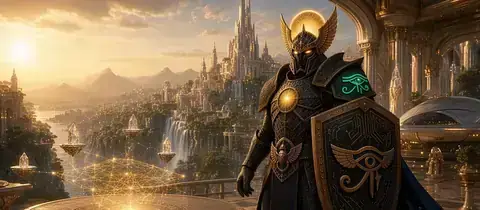
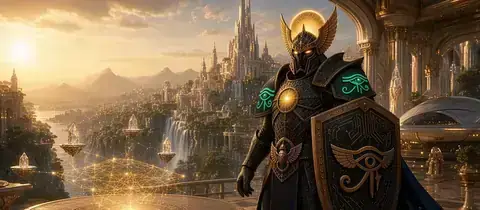
EYES-CANON-3: Sherif 8:47 PM - eyes on both shoulders for Launch and chat, hump-shaped Forge hammer head

Changed region(s): [[0.5312, 0.3714, 0.5938, 0.5714]]

diff --git a/tests/art-uplift-2.test.js b/tests/art-uplift-2.test.js
@@ -118,7 +118,7 @@ assert(legalClass['licence.html'].indexOf('rt-art-hero-wide') === -1, 'licence k
 /* 3. Destination thumbnails on section cards (ART-UPLIFT-3: re-cut from the new chat, shard, forge, employ and launch heroes). */
 var THUMBS = {
   'Launch-Ra-Thor.html': [
-    ['/chat.html', 'chat-library-counsel'],
+    ['/chat.html', 'chat-library-counsel-eyes'],
     ['/sovereign-shard.html', 'shard-guardian-sanctum-c3'],
     ['/web-forge.html', 'forge-anvil-lattice-c3'],
     ['/employ.html', 'employ-commission-hall'],
@@ -155,7 +155,8 @@ Object.keys(THUMBS).forEach(function (page) {
     });
     /* The thumbnail is a crop of the destination page's own hero. */
     var dest = pair[0].replace(/^\//, '');
-    /* EXAMPLES-NO-HAMMER-1 / EXAMPLES-CANON-2 / EYES-CANON-3: a '-nh', '-c2' or '-c3' stem is the same crop, repainted (new name so cache-first sw.js refreshes it). */
+    /* EXAMPLES-NO-HAMMER-1 / EXAMPLES-CANON-2 / EYES-CANON-3: a '-nh', '-c2' or '-c3' stem is the same crop, repainted (new name so cache-first sw.js refreshes it).
+       The chat thumb follows the chat hero's own '-eyes' stem, so it matches without stripping. */
     assert(heroIdByPage[dest] === 'hero-' + id.replace(/-(nh|c2|c3)$/, ''), page + ' card to ' + dest + ' shows that page\'s hero (' + heroIdByPage[dest] + ')');
     /* The card stays one link: either the card is the <a>, or it has exactly one stretched link. */
     var openers = ['<a href="' + pair[0] + '" class="rt-card-uniform', '<div class="rt-card-uniform', '<section class="rt-example-card'];

diff --git a/chat.html b/chat.html
@@ -121,7 +121,7 @@
 
   <main class="relative z-10 flex-1 flex flex-col max-w-3xl w-full mx-auto px-3 sm:px-4 py-3" data-rt-prose>
     <figure class="rt-art-hero rounded-2xl">
-      <img src="/assets/art/hero-chat-library-counsel-768.webp" srcset="/assets/art/hero-chat-library-counsel-768.webp 768w, /assets/art/hero-chat-library-counsel-1672.webp 1672w" sizes="(max-width: 780px) 100vw, 736px" width="1672" height="941" alt="Ra-Thor sits in a moonlit library alcove with his lightning-marked hammer and black and gold shield, listening closely to a young traveler in a teal hooded cloak, with soft gold lights floating between them." fetchpriority="high" decoding="async">
+      <img src="/assets/art/hero-chat-library-counsel-eyes-768.webp" srcset="/assets/art/hero-chat-library-counsel-eyes-768.webp 768w, /assets/art/hero-chat-library-counsel-eyes-1672.webp 1672w" sizes="(max-width: 780px) 100vw, 736px" width="1672" height="941" alt="Ra-Thor sits in a moonlit library alcove with his lightning-marked hammer and black and gold shield, listening closely to a young traveler in a teal hooded cloak, with soft gold lights floating between them." fetchpriority="high" decoding="async">
     </figure>
     <div class="mb-2.5 rounded-2xl border border-amber-300/20 bg-zinc-950/80 px-3 py-2.5">
       <div class="flex flex-wrap items-center gap-1.5 mb-2">

diff --git a/Launch-Ra-Thor.html b/Launch-Ra-Thor.html
@@ -50,7 +50,7 @@ body { font-family: 'Inter', system-ui, sans-serif; }
 
         <div class="mt-12 grid md:grid-cols-2 gap-5 rt-card-grid rt-card-grid--md">
             <a href="/chat.html" class="rt-card-uniform block rounded-3xl p-7 sm:p-8 hover:border-amber-300/70 transition-colors">
-                <img class="rt-card-thumb" src="/assets/art/thumb-chat-library-counsel-480.webp" srcset="/assets/art/thumb-chat-library-counsel-480.webp 480w, /assets/art/thumb-chat-library-counsel-720.webp 720w" sizes="(min-width: 768px) 440px, calc(100vw - 6rem)" width="720" height="315" alt="" loading="lazy" decoding="async">
+                <img class="rt-card-thumb" src="/assets/art/thumb-chat-library-counsel-eyes-480.webp" srcset="/assets/art/thumb-chat-library-counsel-eyes-480.webp 480w, /assets/art/thumb-chat-library-counsel-eyes-720.webp 720w" sizes="(min-width: 768px) 440px, calc(100vw - 6rem)" width="720" height="315" alt="" loading="lazy" decoding="async">
                 <div class="text-amber-300 text-xs font-semibold tracking-wider" data-i18n="launchChatKicker">LATTICE CHAT</div>
                 <div class="mt-1 text-xs text-white/45" data-i18n="launchChatMeta">14.15.6 · privacy-first surface</div>
                 <div class="mt-3 text-2xl sm:text-3xl font-semibold" data-i18n="launchChatTitle">Offline-first sessions</div>

diff --git a/tests/art-uplift-3.test.js b/tests/art-uplift-3.test.js
@@ -18,7 +18,7 @@ function figure(html) {
 var NEW = {
   "Launch-Ra-Thor.html": "hero-launch-lattice-terrace",
   "briefing.html": "hero-briefing-bridge-landing",
-  "chat.html": "hero-chat-library-counsel",
+  "chat.html": "hero-chat-library-counsel-eyes",
   "employ.html": "hero-employ-commission-hall",
   "web-forge.html": "hero-forge-anvil-lattice",
   "sovereign-shard.html": "hero-shard-guardian-sanctum",

diff --git a/docs/ART-CANON.md b/docs/ART-CANON.md
@@ -10,10 +10,11 @@ Labels: **Ruling** means a Sherif quote below directly supports the item ("via t
 
 **Model (Ruling, 3:00 PM ET Nov 25):** the hammers in the chat.html hero (`assets/art/hero-chat-library-counsel-*.webp`) and the pilot.html hero (`assets/art/hero-pilot-scoped-workbench-*.webp`, the hammer on the table) are the model for every hero. Where the 2:17 PM reference image and these two hammers differ, the two model hammers win.
 
-**Examples (Ruling, 8:30 PM ET Nov 25):** his three good examples are the whitepaper hero (the docs cover picture of Ra-Thor reading a book, no hammer), the employ.html hero (`assets/art/hero-employ-commission-hall-*.webp`, the hammer standing head-down) and the pilot.html hero (the hammer on the table). The employ.html and pilot.html hammers are the ones to copy. The chat.html hammer's pointed end faces are not copied.
+**Examples (Ruling, 8:30 PM ET Nov 25):** his three good examples are the whitepaper hero (the docs cover picture of Ra-Thor reading a book, no hammer), the employ.html hero (`assets/art/hero-employ-commission-hall-*.webp`, the hammer standing head-down) and the pilot.html hero (the hammer on the table). The employ.html and pilot.html hammers set the detailing: bevelled edges, carved relief, the framed bolt panel, the collar and the haft. For the outline of the head, the 8:47 PM ruling keeps the triangular-hump shape canon (see Ends).
 
-- **Head (Ruling, 2:15 PM, 3:00 PM and 8:30 PM):** one complete, symmetric block head of dark bronze-iron, as on the employ.html and pilot.html hammers: a squared-off block with both ends intact, bevelled (chamfered) edges and corners, and carved knotwork relief. It must never be truncated, cut off or shaved flat.
-- **Ends (Ruling, 8:30 PM):** asked on a question card "Which part of my before-and-after is off canon?", Sherif picked the option "Both hammers and eyes", after typing "This is off canon entirely. Use these good examples." The ends are flat, bevelled block ends like the employ.html and pilot.html hammers, with no pointed or hexagonal humps. The 8:00 PM "triangular humps" are read as those bevelled corners. *Inference (Wild), not a Sherif ruling.*
+- **Head (Ruling, 2:15 PM, 3:00 PM and 8:47 PM):** one complete, symmetric block head of dark bronze-iron, with both ends intact, bevelled edges and carved knotwork relief, and hump-shaped ends (see Ends). It must never be truncated, cut off or shaved flat.
+- **Ends (Ruling, 8:00 PM and 8:47 PM):** each end of the head has the triangular-hump shape of the chat.html hammer head (pointed hump ends), never a plain rectangle. At 8:47 PM, on the Forge card thumbnail, Sherif wrote: "the hammer is still rectangular instead of becoming the strange iconic shape with the triangular hump design we made canon." Earlier, at 8:30 PM, he answered a question card ("Which part of my before-and-after is off canon?") by picking the option "Both hammers and eyes", after typing "This is off canon entirely. Use these good examples." The 8:47 PM words settle that the hump shape stays canon.
+- **Open exception, awaiting Sherif:** at 8:47 PM he called the examples hero proof row okay. That hammer has a squared block head with the employ.html bolt panel and no humps, so it keeps that head for now.
 - **Centre (Ruling, 3:00 PM and 8:30 PM, via the examples):** a recessed dark hexagonal or elongated-octagon panel framed in gold, holding a glowing gold lightning bolt (like the ⚡ emoji). There is no eye, gem or text on the hammer.
 - **Top (Ruling, 1:22 PM, 1:43 PM and 3:00 PM):** nothing on top of the head, so no cone, triangle or spike.
 - **Neck (Ruling, 3:00 PM, via the model):** a round gold boss or stud where the haft enters the head, with gold ring bands below it, as on the model hammers. There is no gold triangle or cone at the head.
@@ -22,12 +23,12 @@ Labels: **Ruling** means a Sherif quote below directly supports the item ("via t
 - **Scale:** heroic, with the head about as wide as his shoulders or hips. *Inference (Wild), not a Sherif ruling.* The two model hammers are shown at different distances and do not settle the scale.
 - **Which faces carry the bolt:** *unruled.* The model hammers show the bolt on the one visible face.
 
-## Shoulder eye (Ruling, 8:30 PM, via the examples)
+## Shoulder eye (Rulings, 8:30 PM and 8:47 PM)
 
-Scope: this rule covers the three reference heroes (whitepaper, employ.html, pilot.html) and the pictures repainted in EYES-CANON-3 (the Launch, Shard and Forge card thumbnails). It is not yet a rule for every picture.
+Scope: this rule covers the three reference heroes (whitepaper, employ.html, pilot.html) and the pictures repainted in EYES-CANON-3 (the Launch, Shard and Forge card thumbnails, and the chat.html hero and its card thumbnail). It is not yet a rule for every picture.
 
 - One large Eye of Horus in bright, glowing emerald-green line art (brow, eye outline, round pupil, teardrop line and spiral tail) sits centred on the far pauldron (his left, the shield side). It is about half the pauldron's width, on black-and-gold armour, sometimes with a dark green tint on the plate.
-- In the whitepaper and pilot heroes the near pauldron shows no eye. In the employ hero only a sliver of an eye shows at its edge. So no extra eye is added to a near pauldron.
+- **Near pauldron (Ruling, 8:47 PM):** where a picture had a good near-shoulder eye, it keeps one as a clear, correct Eye of Horus in the same style, and it must not be removed. The Launch card thumbnail and the chat.html hero (with its card thumbnail) carry a clear eye on both shoulders. The Shard and Forge card thumbnails, which he called okay, keep the far eye only. In the whitepaper and pilot heroes the near pauldron shows no eye, and in the employ hero only a sliver shows.
 - **Open exception, awaiting Sherif:** the examples.html hero (unchanged in EYES-CANON-3) still shows a large eye on his right pauldron. It is the standing picture Sherif sent at 6:01 PM as a good-eyes example (ref-1). Whether that placement stays, or follows the far-pauldron rule, is his call.
 
 ## Two suit styles (Ruling, 8:30 PM)
@@ -72,3 +73,4 @@ None of these has a Sherif quote on file in this record. Each comes from the ART
 | 8:00 PM (Nov 25) | "While at it, make the hammers properly canonical where they accidentally are a rectangle without the triangular humps of the metal hammer top." | **Superseded** by 8:30 PM. The first EYES-CANON-3 repaint gave hammers hexagonal hump ends, and Sherif rejected it. |
 | 8:30 PM (Nov 25) | "This is off canon entirely. Use these good examples. I'm aware we have 2 personified styles active for Ra-Thor like Batman wearing different yet thematically similar suits, Mate" | The whitepaper, employ.html and pilot.html heroes are his good examples (see Hammer, Examples; Shoulder eye; Two suit styles). |
 | 8:30 PM (Nov 25, question card) | Card answer, not typed: on "Which part of my before-and-after is off canon?" he picked the option "Both hammers and eyes". | EYES-CANON-3 redone from the live main pictures. On the Launch, Shard and Forge card thumbnails (new `-c3` stems, also on Launch-Ra-Thor.html), the far-shoulder eye was repainted in the examples' line style and the green blob on the near shoulder was painted out. The examples hero hammer head got the employ.html bolt panel and carved relief (new `-c3` stem). The chat.html hero already matches the examples (eye on the far shoulder only) and is unchanged. The Forge card hammer already matches the pilot.html hammer and is unchanged. |
+| 8:47 PM (Nov 25) | "1st row needs correct eyes and had a good eye on the 2nd shoulder which was accidentally removed. Next 3 rows okay. Final row had same issue as the green eyes of horus problems of 1st row, 2nd last row the hammer is still rectangular instead of becoming the strange iconic shape with the triangular hump design we made canon." | On the 3b proof: the Launch card thumbnail gets back a clear near-shoulder eye, the chat.html hero and its card thumbnail get a clear eye on both shoulders (new `-eyes` stems; the chat hammer is untouched), and the Forge card hammer head gets the triangular-hump shape (still `-c3`). The Shard and Forge shoulders and the examples hero hammer stay as he approved them. |
